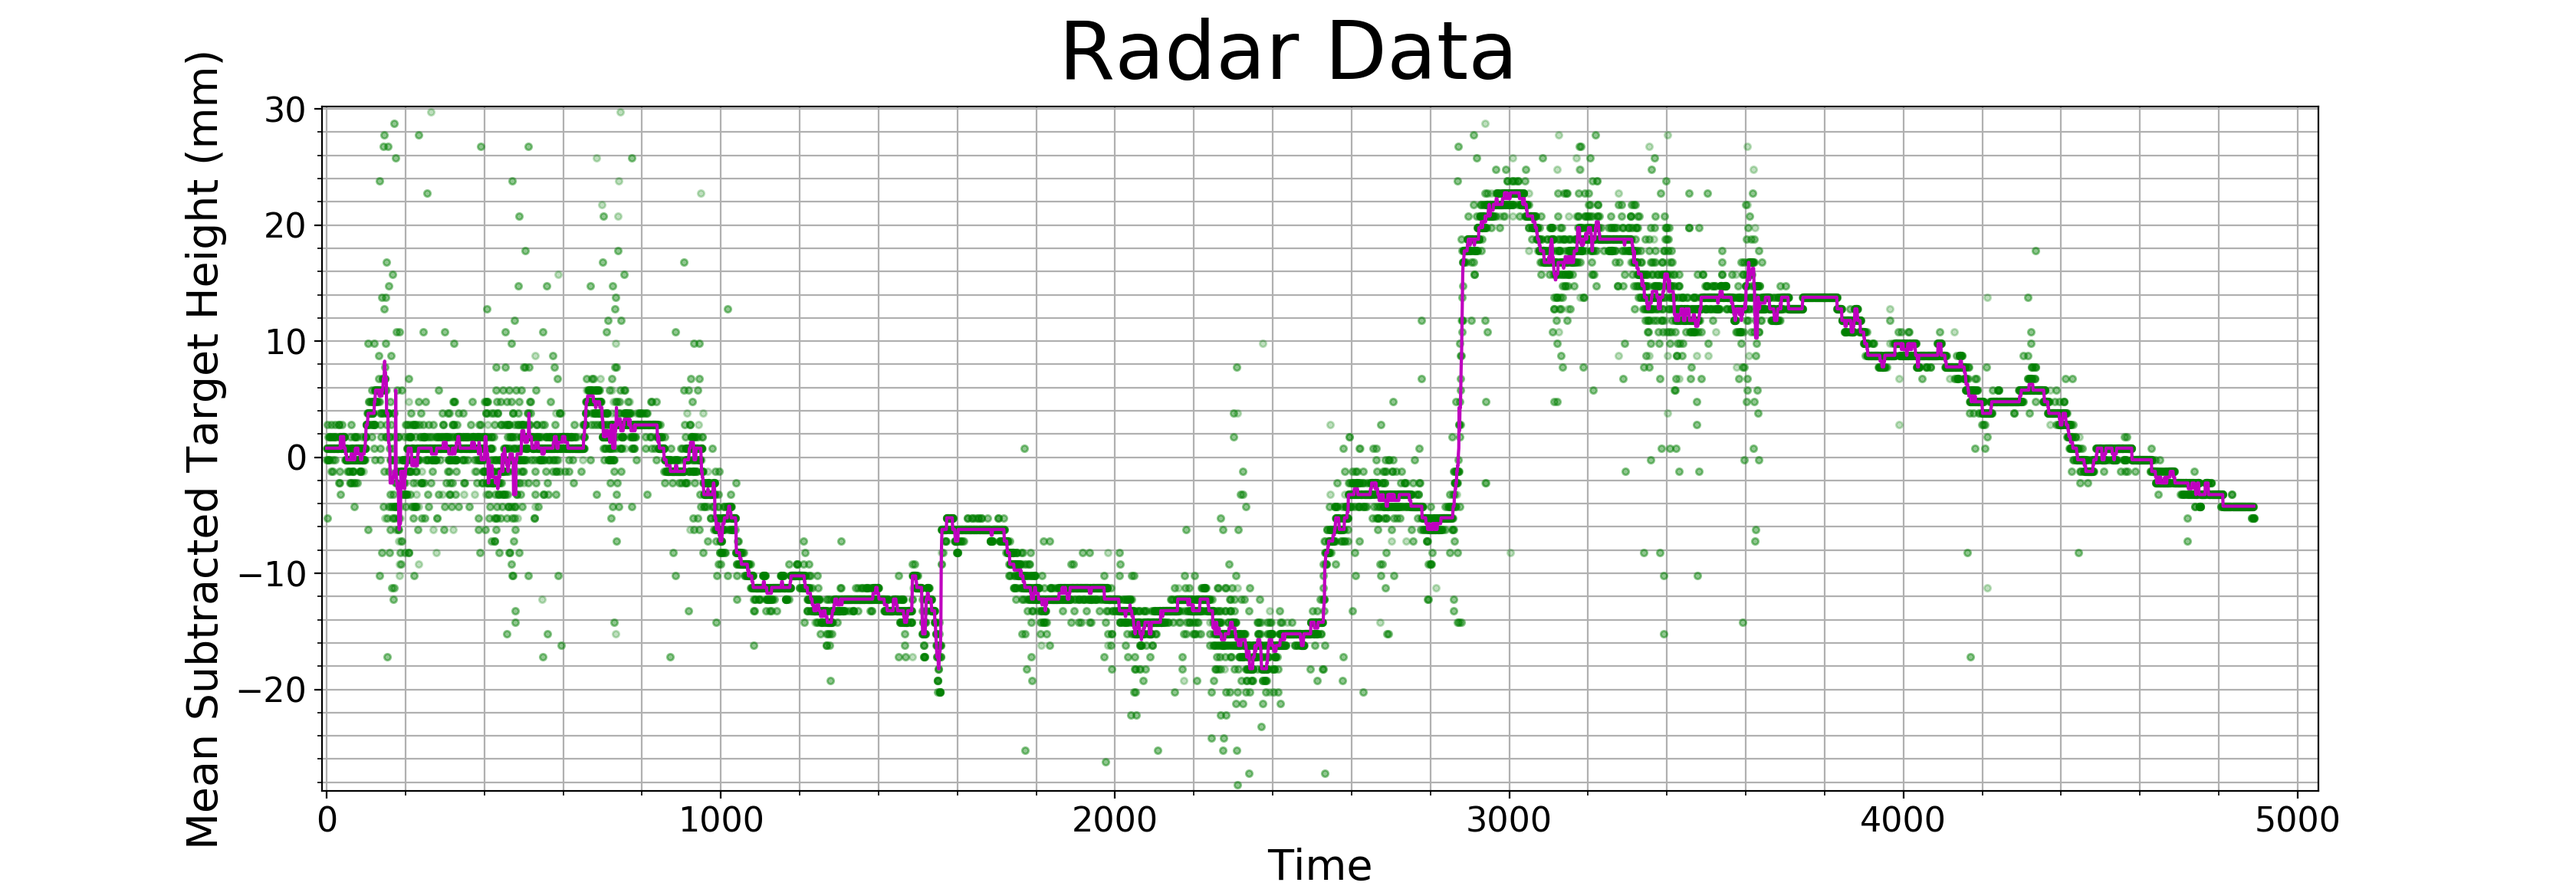
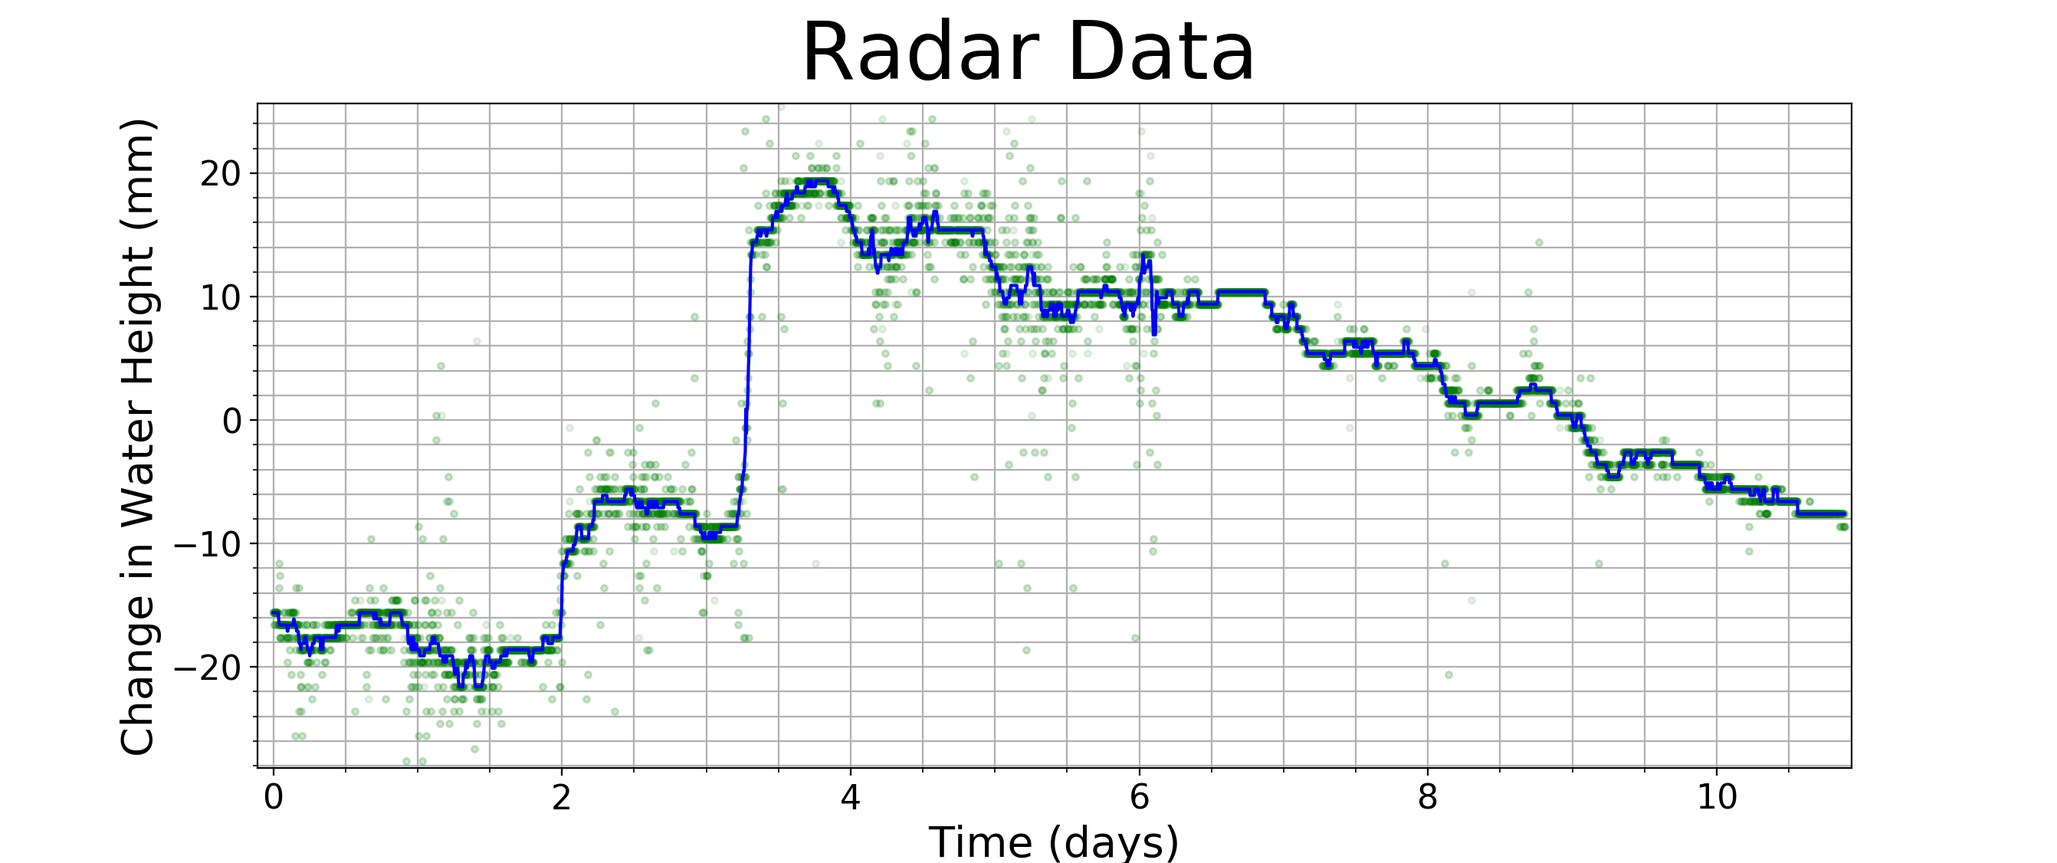
fancy radar graph

Changed region(s): [[0.0618, 0.0622, 0.9277, 0.9636], [0.3711, 0.0, 0.6185, 0.0933], [0.4639, 0.9636, 0.5876, 0.9947]]

diff --git a/radar/localAnalysis.py b/radar/localAnalysis.py
@@ -12,16 +12,18 @@ with open('sensor_vals.pkl', 'rb') as f:
 
 
     
-date_nums = saved_data[0]
+date_nums = np.array(saved_data[0])
 sensor_values = np.array(saved_data[1])[:,1:]
 sensor_med = np.array([np.median(x) for x in sensor_values])
 
-interesting = sensor_med[500:]
+data_start = 2500
+interesting = sensor_med[data_start:]
+date_nums = date_nums[data_start:] - date_nums[data_start]
 
 med_med = signal.medfilt(interesting, [9])
 med_mean = np.mean(med_med)
 med_med = (-med_med + med_mean)
-cloud = (-sensor_values[500:,:] + med_mean)
+cloud = (-sensor_values[data_start:,:] + med_mean)
 
 #fs = 1/300
 #bands =   [0, 1*fs/16, 2*fs/8, 3*fs/8] 
@@ -35,10 +37,10 @@ cloud = (-sensor_values[500:,:] + med_mean)
 fig = matplotlib.pyplot.figure()
 fig.suptitle("Radar Data", fontsize=38)
 #matplotlib.pyplot.plot_date(date_nums, med_med, ls='-', ms=0)
-matplotlib.pyplot.plot(cloud,'go', ms=3, ls='', alpha = 0.25)
-matplotlib.pyplot.plot(med_med, '-m', ls='-', ms=0)
-matplotlib.pyplot.xlabel("Time", fontsize=20)
-matplotlib.pyplot.ylabel("Mean Subtracted Target Height (mm)", fontsize=20)
+matplotlib.pyplot.plot(date_nums, cloud,'go', ms=3, ls='', alpha = 0.1)
+matplotlib.pyplot.plot(date_nums, med_med, '-b', ls='-', ms=0)
+matplotlib.pyplot.xlabel("Time (days)", fontsize=20)
+matplotlib.pyplot.ylabel("Change in Water Height (mm)", fontsize=20)
 matplotlib.pyplot.minorticks_on()
 matplotlib.pyplot.xticks(fontsize=16)
 matplotlib.pyplot.yticks(fontsize=16)
